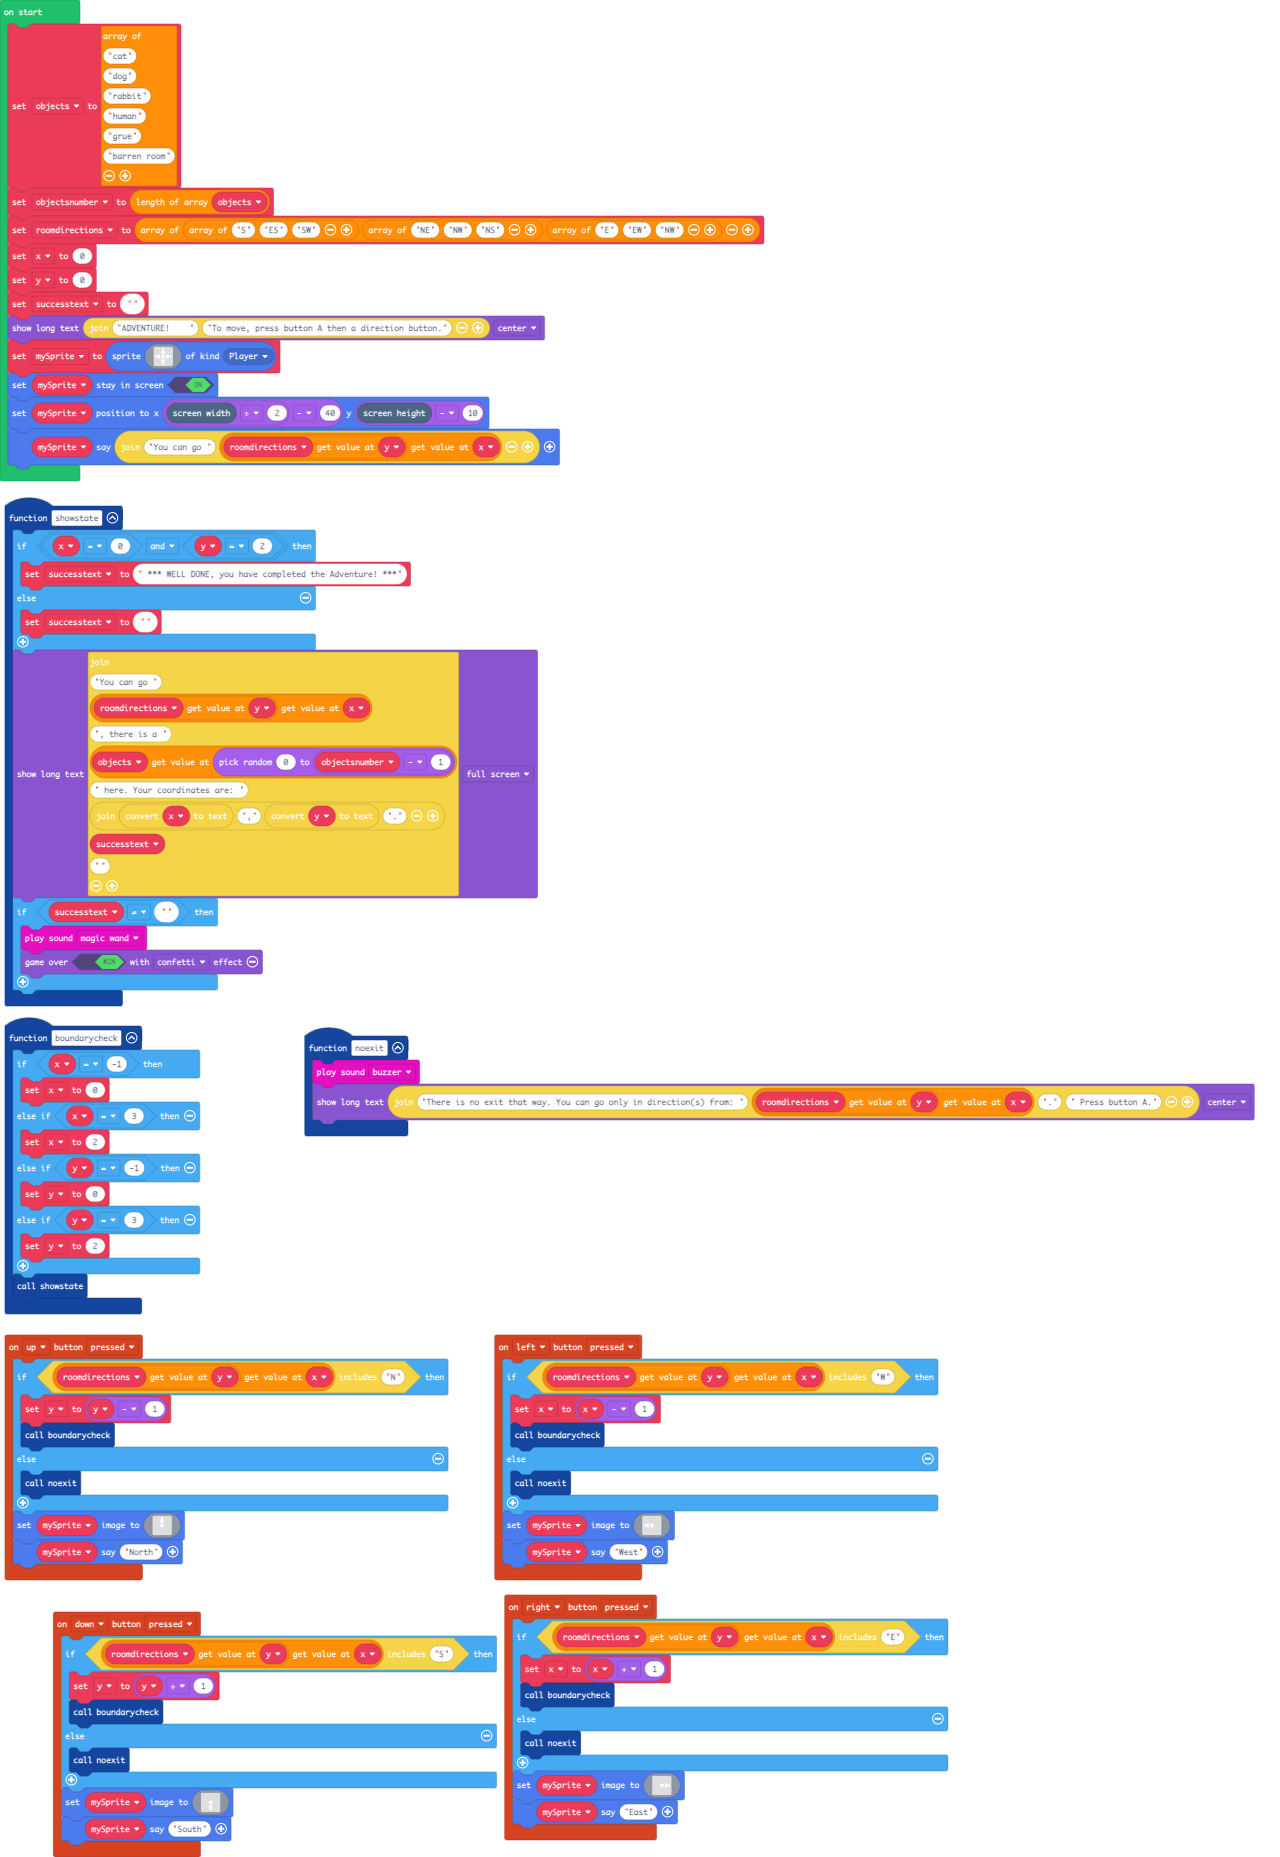
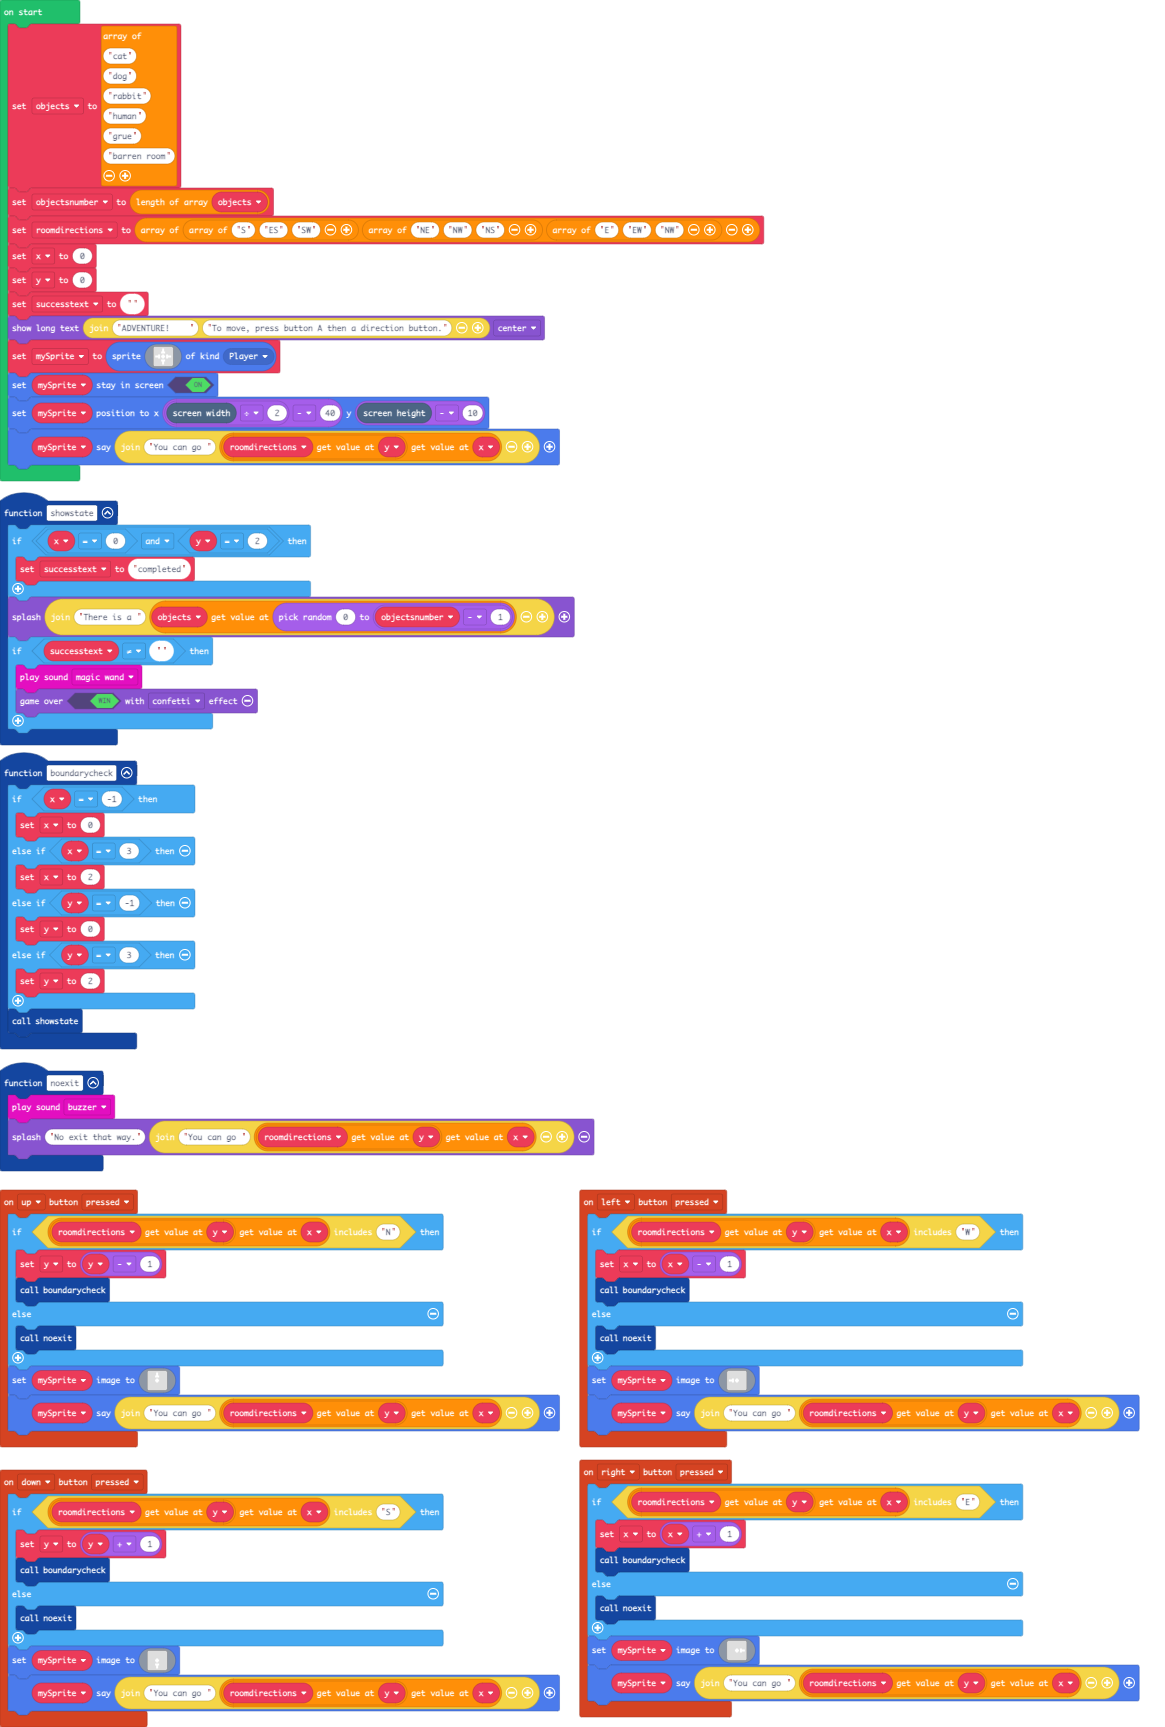
Made dialogues consistent

diff --git a/main.ts b/main.ts
@@ -6,7 +6,7 @@ controller.up.onEvent(ControllerButtonEvent.Pressed, function () {
         noexit()
     }
     mySprite.setImage(assets.image`up`)
-    mySprite.say("North")
+    mySprite.say("You can go " + roomdirections[y][x])
 })
 controller.left.onEvent(ControllerButtonEvent.Pressed, function () {
     if (roomdirections[y][x].includes("W")) {
@@ -16,15 +16,13 @@ controller.left.onEvent(ControllerButtonEvent.Pressed, function () {
         noexit()
     }
     mySprite.setImage(assets.image`left`)
-    mySprite.say("West")
+    mySprite.say("You can go " + roomdirections[y][x])
 })
 function showstate () {
     if (x == 0 && y == 2) {
-        successtext = " *** WELL DONE, you have completed the Adventure! ***"
-    } else {
-        successtext = ""
+        successtext = "completed"
     }
-    game.showLongText("You can go " + roomdirections[y][x] + ", there is a " + objects[randint(0, objectsnumber - 1)] + " here. Your coordinates are: " + ("" + convertToText(x) + "," + convertToText(y) + ".") + successtext + "", DialogLayout.Full)
+    game.splash("There is a " + objects[randint(0, objectsnumber - 1)])
     if (successtext != "") {
         music.magicWand.play()
         game.over(true, effects.confetti)
@@ -38,7 +36,7 @@ controller.right.onEvent(ControllerButtonEvent.Pressed, function () {
         noexit()
     }
     mySprite.setImage(assets.image`right`)
-    mySprite.say("East")
+    mySprite.say("You can go " + roomdirections[y][x])
 })
 controller.down.onEvent(ControllerButtonEvent.Pressed, function () {
     if (roomdirections[y][x].includes("S")) {
@@ -48,11 +46,11 @@ controller.down.onEvent(ControllerButtonEvent.Pressed, function () {
         noexit()
     }
     mySprite.setImage(assets.image`down`)
-    mySprite.say("South")
+    mySprite.say("You can go " + roomdirections[y][x])
 })
 function noexit () {
     music.buzzer.play()
-    game.showLongText("There is no exit that way. You can go only in direction(s) from: " + roomdirections[y][x] + "." + " Press button A.", DialogLayout.Center)
+    game.splash("No exit that way.", "You can go " + roomdirections[y][x])
 }
 function boundarycheck () {
     if (x == -1) {
